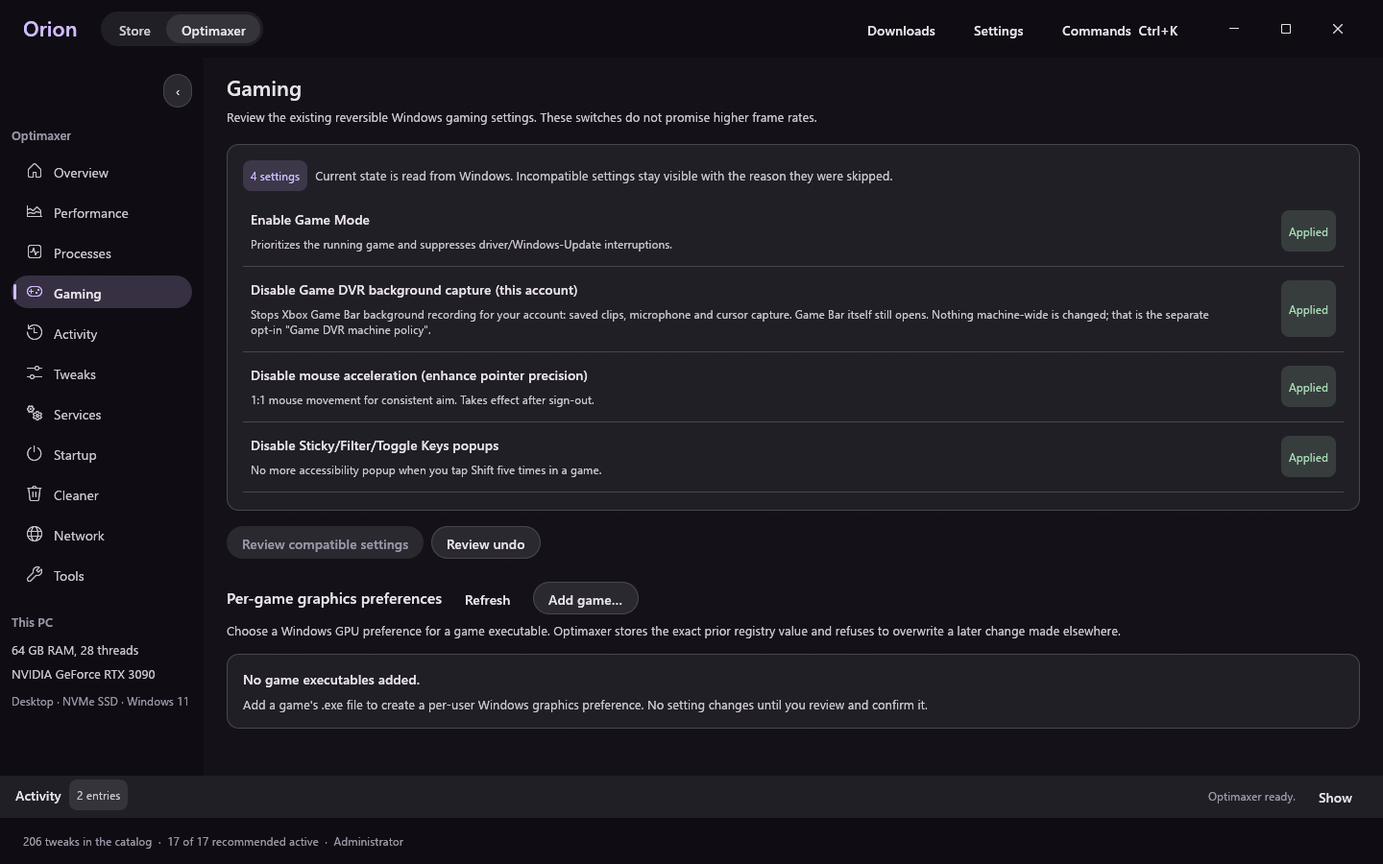
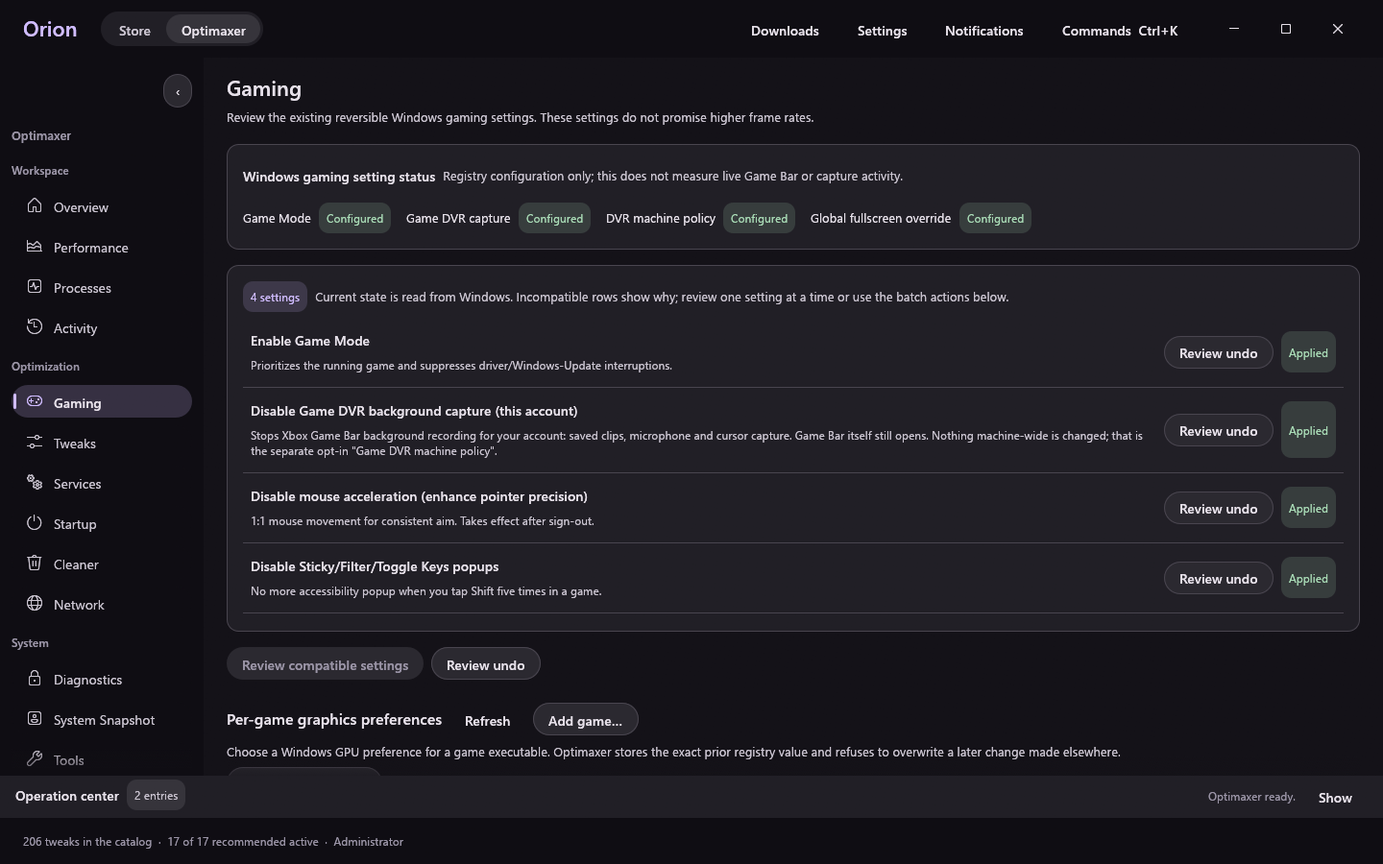
feat(gaming): add per-setting review controls (#82)

diff --git a/desktop/src/opti_ui.rs b/desktop/src/opti_ui.rs
@@ -4403,7 +4403,7 @@ impl OptiUi {
         kit::page_header(
             ui,
             "Gaming",
-            "Review the existing reversible Windows gaming settings. These switches do not promise higher frame rates.",
+            "Review the existing reversible Windows gaming settings. These settings do not promise higher frame rates.",
         );
         self.refresh_game_states(ctx);
 
@@ -4442,75 +4442,149 @@ impl OptiUi {
             .collect();
         kit::card(ui, |ui| {
             ui.set_width(ui.available_width());
-            ui.horizontal_wrapped(|ui| {
-                ui.label(RichText::new("Windows gaming setting status").font(FontId::new(T_BODY, semibold())).color(t.text));
-                ui.label(RichText::new("Registry configuration only; this does not measure live Game Bar or capture activity.").size(T_SMALL).color(t.muted));
-            });
+            let status_items = [
+                ("Game Mode", "game-mode"),
+                ("Game DVR capture", "game-dvr"),
+                ("DVR machine policy", "game-dvr-policy"),
+                ("Global fullscreen override", "game-fso"),
+            ];
+            let draw_status = |ui: &mut Ui, label: &str, id: &str| {
+                ui.horizontal_wrapped(|ui| {
+                    ui.label(RichText::new(label).size(T_SMALL).color(t.text));
+                    let current = self.status.get(id).copied();
+                    let tone = match current {
+                        Some(true) => Tone::Good,
+                        Some(false) => Tone::Warn,
+                        None => Tone::Bad,
+                    };
+                    kit::chip(ui, setting_match_label(current), tone);
+                });
+            };
+            if ui.available_width() < 640.0 {
+                ui.vertical(|ui| {
+                    ui.label(
+                        RichText::new("Windows gaming setting status")
+                            .font(FontId::new(T_BODY, semibold()))
+                            .color(t.text),
+                    );
+                    ui.add(
+                        egui::Label::new(
+                            RichText::new("Registry configuration only; this does not measure live Game Bar or capture activity.")
+                                .size(T_SMALL)
+                                .color(t.muted),
+                        )
+                        .wrap(),
+                    );
+                });
+            } else {
+                ui.horizontal_wrapped(|ui| {
+                    ui.label(RichText::new("Windows gaming setting status").font(FontId::new(T_BODY, semibold())).color(t.text));
+                    ui.add(egui::Label::new(RichText::new("Registry configuration only; this does not measure live Game Bar or capture activity.").size(T_SMALL).color(t.muted)).wrap());
+                });
+            }
             ui.add_space(S1);
-            ui.horizontal_wrapped(|ui| {
-                for (label, id) in [
-                    ("Game Mode", "game-mode"),
-                    ("Game DVR capture", "game-dvr"),
-                    ("DVR machine policy", "game-dvr-policy"),
-                    ("Global fullscreen override", "game-fso"),
-                ] {
-                    ui.horizontal(|ui| {
-                        ui.label(RichText::new(label).size(T_SMALL).color(t.text));
-                        let current = self.status.get(id).copied();
-                        let tone = match current {
-                            Some(true) => Tone::Good,
-                            Some(false) => Tone::Warn,
-                            None => Tone::Bad,
-                        };
-                        kit::chip(ui, setting_match_label(current), tone);
-                    });
-                    ui.add_space(S2);
-                }
-            });
+            if ui.available_width() < 640.0 {
+                ui.columns(2, |columns| {
+                    let column_count = columns.len();
+                    for (index, (label, id)) in status_items.iter().enumerate() {
+                        let column = &mut columns[index % column_count];
+                        draw_status(column, label, id);
+                        column.add_space(S2);
+                    }
+                });
+            } else {
+                ui.horizontal_wrapped(|ui| {
+                    for (label, id) in status_items {
+                        draw_status(ui, label, id);
+                        ui.add_space(S2);
+                    }
+                });
+            }
         });
         ui.add_space(S2);
+        let mut requested_tweak_review: Option<(String, bool)> = None;
         kit::card(ui, |ui| {
             ui.set_width(ui.available_width());
-            ui.horizontal_wrapped(|ui| {
-                kit::chip(ui, &format!("{} settings", supported.len()), Tone::Brand);
-                ui.label(RichText::new("Current state is read from Windows. Incompatible settings stay visible with the reason they were skipped.").size(T_SMALL).color(t.muted));
-            });
+            if ui.available_width() < 640.0 {
+                ui.vertical(|ui| {
+                    kit::chip(ui, &format!("{} settings", supported.len()), Tone::Brand);
+                    ui.add(
+                        egui::Label::new(
+                            RichText::new("Current state is read from Windows. Incompatible rows show why; review one setting at a time or use the batch actions below.")
+                                .size(T_SMALL)
+                                .color(t.muted),
+                        )
+                        .wrap(),
+                    );
+                });
+            } else {
+                ui.horizontal_wrapped(|ui| {
+                    kit::chip(ui, &format!("{} settings", supported.len()), Tone::Brand);
+                    ui.add(egui::Label::new(RichText::new("Current state is read from Windows. Incompatible rows show why; review one setting at a time or use the batch actions below.").size(T_SMALL).color(t.muted)).wrap());
+                });
+            }
             ui.add_space(S2);
             for tw in &supported {
                 let applied = self.status.get(&tw.id).copied().unwrap_or(false);
                 let compatible = hw::fits(tw, traits);
+                let can_review = self.busy.is_none() && self.elevated;
                 egui::Frame::new()
                     .inner_margin(Margin::symmetric(S2 as i8, S1 as i8))
                     .show(ui, |ui| {
                         ui.set_width(ui.available_width());
-                        let details_width = (ui.available_width() - 96.0).max(120.0);
-                        ui.horizontal(|ui| {
-                            ui.scope(|ui| {
-                                ui.set_max_width(details_width);
-                                ui.vertical(|ui| {
-                                    ui.label(
+                        let draw_details = |ui: &mut Ui| {
+                            ui.vertical(|ui| {
+                                ui.add(
+                                    egui::Label::new(
                                         RichText::new(&tw.name)
                                             .font(FontId::new(T_BODY, semibold()))
                                             .color(t.text),
-                                    );
-                                    ui.add(
-                                        egui::Label::new(
-                                            RichText::new(&tw.desc).size(T_CAPTION).color(t.muted),
-                                        )
-                                        .wrap(),
-                                    );
+                                    )
+                                    .wrap(),
+                                );
+                                ui.add(
+                                    egui::Label::new(
+                                        RichText::new(&tw.desc).size(T_CAPTION).color(t.muted),
+                                    )
+                                    .wrap(),
+                                );
+                            });
+                        };
+                        let mut draw_action = |ui: &mut Ui| {
+                            if applied {
+                                kit::chip(ui, "Applied", Tone::Good);
+                                if kit::secondary(ui, "Review undo", can_review).clicked() {
+                                    requested_tweak_review = Some((tw.id.clone(), true));
+                                }
+                            } else if !compatible {
+                                kit::chip(ui, "Not applicable", Tone::Neutral);
+                            } else {
+                                kit::chip(ui, "Available", Tone::Neutral);
+                                if kit::secondary(ui, "Review apply", can_review).clicked() {
+                                    requested_tweak_review = Some((tw.id.clone(), false));
+                                }
+                            }
+                        };
+                        let row_width = ui.available_width();
+                        if row_width < 640.0 {
+                            ui.vertical(|ui| {
+                                ui.set_width(row_width);
+                                draw_details(ui);
+                                ui.add_space(S1);
+                                ui.horizontal(|ui| draw_action(ui));
+                            });
+                        } else {
+                            let details_width = (row_width - 184.0).max(120.0);
+                            ui.horizontal(|ui| {
+                                ui.scope(|ui| {
+                                    ui.set_max_width(details_width);
+                                    draw_details(ui);
+                                });
+                                ui.with_layout(Layout::right_to_left(Align::Center), |ui| {
+                                    draw_action(ui);
                                 });
                             });
-                            ui.with_layout(Layout::right_to_left(Align::Center), |ui| {
-                                if applied {
-                                    kit::chip(ui, "Applied", Tone::Good);
-                                } else if !compatible {
-                                    kit::chip(ui, "Not applicable", Tone::Neutral);
-                                } else {
-                                    kit::chip(ui, "Available", Tone::Neutral);
-                                }
-                            });
-                        });
+                        }
                         if !compatible && let Some(reason) = hw::fit_reason(tw, traits) {
                             ui.label(RichText::new(reason).size(T_SMALL).color(t.subtle));
                         }
@@ -4518,6 +4592,13 @@ impl OptiUi {
                 ui.separator();
             }
         });
+        if let Some((id, undo)) = requested_tweak_review {
+            if undo {
+                self.preview_undo_ids(vec![id]);
+            } else {
+                self.preview_apply_ids(ctx, vec![id]);
+            }
+        }
         ui.add_space(S2);
         ui.horizontal_wrapped(|ui| {
             let ready = self.busy.is_none() && self.elevated;

diff --git a/desktop/src/app.rs b/desktop/src/app.rs
@@ -3099,8 +3099,8 @@ mod app_tests {
     #[test]
     fn update_busy_state_only_matches_running_operations() {
         let release = || Release {
-            version: (2, 15, 32),
-            tag: "v2.15.32".into(),
+            version: (2, 15, 33),
+            tag: "v2.15.33".into(),
             notes: String::new(),
             page: String::new(),
             url: String::new(),

diff --git a/linux/optimaxer.py b/linux/optimaxer.py
@@ -20,7 +20,7 @@ import tempfile
 import time
 import urllib.request
 
-__version__ = "2.15.32"
+__version__ = "2.15.33"
 REPO = "bliper2/optimaxer"
 STATE_FILE = "/var/lib/optimaxer/state.json"
 BACKUP_DIR = "/var/lib/optimaxer/backups"

diff --git a/docs/edition-comparison.md b/docs/edition-comparison.md
@@ -1,6 +1,6 @@
 # Edition comparison
 
-Snapshot of the repository at v2.15.32. This describes implemented scope, not a parity promise. The Rust desktop app is the primary target for the UI work; the PowerShell and Linux editions remain independent products.
+Snapshot of the repository at v2.15.33. This describes implemented scope, not a parity promise. The Rust desktop app is the primary target for the UI work; the PowerShell and Linux editions remain independent products.
 
 | Area | PowerShell / WPF (Windows) | Python / Tkinter (Linux) | Rust / egui (Windows) |
 | --- | --- | --- | --- |
@@ -20,11 +20,11 @@ Snapshot of the repository at v2.15.32. This describes implemented scope, not a 
 
 ## Rust desktop baseline and gaps
 
-The Rust app has thirteen Optimaxer pages: Overview, Performance, Diagnostics, System Snapshot, Processes, Gaming, Activity, Tweaks, Services, Startup, Cleaner, Network and Tools. Overview samples CPU, physical memory, system-drive capacity, uptime and process count. Performance charts CPU, memory, aggregate physical-disk throughput, receive/send byte rates from active non-loopback adapters, busiest GPU-engine utilization and dedicated GPU memory once per second while Overview or Performance is visible. It captures a selected Windows process for 30 seconds with PresentMon, verifies the download against GitHub's published SHA-256, and records average FPS, 1% and 0.1% lows, p99 frame time, frame count and stutters. Each capture also samples Windows DPC/interrupt counters for five seconds when available, queries current timer resolution, attempts ten TCP connections to 1.1.1.1 port 53, and reads the latest Diagnostics-Performance boot event. TCP averages, jitter and failures measure that DNS endpoint, not ICMP ping or game-server latency. Boot duration is comparable only across distinct boot-event timestamps. Before/after comparisons require matching process names and are explicitly observational. Captures are capped at 40; executable and history live under the app data directory. Disk readings use the Windows PhysicalDisk `Disk Bytes/sec` counter; virtual network adapters may be included, so network readings are adapter traffic rather than internet throughput. Unsupported counters are shown as unavailable. Diagnostics runs only the read-only SFC `/verifyonly` and DISM `/Online /Cleanup-Image /ScanHealth` checks, displaying exit codes and bounded captured output; repair actions remain in Tools. System Snapshot stores the current OS, CPU, GPU names, logical thread count, memory, system-volume capacity and uptime locally, retaining the 30 newest records; it compares the two newest captures for changes to inventory and total capacity, excluding changing used-space and uptime readings. It is an inventory and cannot restore Windows. The read-only Processes page samples each accessible process's CPU time, working set and image path every three seconds while open; protected or inaccessible process fields remain unavailable. CPU is normalized to total logical processor capacity and is a short-interval estimate. The Gaming page displays current state for four existing reversible gaming tweaks and offers hardware-filtered apply/undo through the existing confirmation flow. It supports manually added executable profiles for Windows per-game GPU preference, with exact saved-original restoration and external-change conflict protection. Preference-only JSON presets can be imported/exported; executable paths and saved Windows values are excluded. The read-only library scan lists installed games from bounded Steam app manifests and Epic launcher `.item` manifests; it does not traverse game folders or change launcher data. Users select an executable in the detected install folder before saving a game profile. Steam library manifests that cannot be read are skipped; Epic invalid manifests are reported. Per-profile history displays the latest matching apply and restore records from the bounded operation log. The Gaming page reports whether Game Mode, per-user Game DVR capture, machine Game DVR policy and the global fullscreen-optimization override match the registry settings used by Optimaxer tweaks. This is configuration status, not live Game Bar or capture activity. The Performance page provides user-triggered PresentMon captures and observational comparisons. Publisher details, process termination and process inspection details are not implemented. The latest 100 confirmed tweak apply/undo batches are saved locally. Activity merges these records with up to 100 bounded system-action records for confirmed service, startup, cleaner, DNS, network reset, tool, installer launch, registry export and undo-all jobs in one timestamp-sorted, searchable timeline. Operation records label worker-reported warnings and errors and retain bounded output; a finished worker does not verify final system state or provide undo data. The download manager can cancel downloads, and Cleaner size scans can be cancelled without retaining partial results. Path previews, other read-only scans, benchmarks and running Windows system-changing jobs cannot currently be cancelled. Separate `operations.json` preserves these records in the app data directory.
+The Rust app has thirteen Optimaxer pages: Overview, Performance, Diagnostics, System Snapshot, Processes, Gaming, Activity, Tweaks, Services, Startup, Cleaner, Network and Tools. Overview samples CPU, physical memory, system-drive capacity, uptime and process count. Performance charts CPU, memory, aggregate physical-disk throughput, receive/send byte rates from active non-loopback adapters, busiest GPU-engine utilization and dedicated GPU memory once per second while Overview or Performance is visible. It captures a selected Windows process for 30 seconds with PresentMon, verifies the download against GitHub's published SHA-256, and records average FPS, 1% and 0.1% lows, p99 frame time, frame count and stutters. Each capture also samples Windows DPC/interrupt counters for five seconds when available, queries current timer resolution, attempts ten TCP connections to 1.1.1.1 port 53, and reads the latest Diagnostics-Performance boot event. TCP averages, jitter and failures measure that DNS endpoint, not ICMP ping or game-server latency. Boot duration is comparable only across distinct boot-event timestamps. Before/after comparisons require matching process names and are explicitly observational. Captures are capped at 40; executable and history live under the app data directory. Disk readings use the Windows PhysicalDisk `Disk Bytes/sec` counter; virtual network adapters may be included, so network readings are adapter traffic rather than internet throughput. Unsupported counters are shown as unavailable. Diagnostics runs only the read-only SFC `/verifyonly` and DISM `/Online /Cleanup-Image /ScanHealth` checks, displaying exit codes and bounded captured output; repair actions remain in Tools. System Snapshot stores the current OS, CPU, GPU names, logical thread count, memory, system-volume capacity and uptime locally, retaining the 30 newest records; it compares the two newest captures for changes to inventory and total capacity, excluding changing used-space and uptime readings. It is an inventory and cannot restore Windows. The read-only Processes page samples each accessible process's CPU time, working set and image path every three seconds while open; protected or inaccessible process fields remain unavailable. CPU is normalized to total logical processor capacity and is a short-interval estimate. The Gaming page displays current state for four existing reversible gaming tweaks and offers hardware-filtered apply/undo through the existing confirmation flow. It supports manually added executable profiles for Windows per-game GPU preference, with exact saved-original restoration and external-change conflict protection. Preference-only JSON presets can be imported/exported; executable paths and saved Windows values are excluded. The read-only library scan lists installed games from bounded Steam app manifests and Epic launcher `.item` manifests; it does not traverse game folders or change launcher data. Users select an executable in the detected install folder before saving a game profile. Steam library manifests that cannot be read are skipped; Epic invalid manifests are reported. Per-profile history displays the latest matching apply and restore records from the bounded operation log. The Gaming page reports whether Game Mode, per-user Game DVR capture, machine Game DVR policy and the global fullscreen-optimization override match the registry settings used by Optimaxer tweaks. This is configuration status, not live Game Bar or capture activity. The four non-opt-in Safe gaming tweaks offer per-row apply and undo review through the shared confirmation flow. Machine-wide DVR policy and the global fullscreen override remain opt-in in Tweaks. The Performance page provides user-triggered PresentMon captures and observational comparisons. Publisher details, process termination and process inspection details are not implemented. The latest 100 confirmed tweak apply/undo batches are saved locally. Activity merges these records with up to 100 bounded system-action records for confirmed service, startup, cleaner, DNS, network reset, tool, installer launch, registry export and undo-all jobs in one timestamp-sorted, searchable timeline. Operation records label worker-reported warnings and errors and retain bounded output; a finished worker does not verify final system state or provide undo data. The download manager can cancel downloads, and Cleaner size scans can be cancelled without retaining partial results. Path previews, other read-only scans, benchmarks and running Windows system-changing jobs cannot currently be cancelled. Separate `operations.json` preserves these records in the app data directory.
 
 Overview recommends eligible inactive Smart Optimize settings, offers a cleanup scan when measured system-drive use reaches 90%, and links to startup review, diagnostics, update checks, restore-point creation and memory cleanup. System changes continue through their existing confirmation flows; Overview itself never applies tweaks or deletes files.
 
-Settings expose system/light/dark mode, Windows/Classic/Material control styling, 16 named color palettes, custom accent and editable light/dark surfaces, reduced motion, comfortable/compact density, 90–125% interface scale, optional 0–16 px corner radius, update checks, download location and restore-point preference. Palette choice remains separate from control shape; custom text and accent are adjusted for contrast. Version 4 appearance presets include custom surfaces; versions 1 through 3 import with defaults for fields they predate. Failed settings writes are reported; appearance and restore-point changes revert in the live UI, while other preferences remain active for the session and show that they were not saved. The Optimaxer rail can collapse to icons and remembers that choice; Store navigation stays expanded. The Tweaks page supports named selection profiles, portable JSON import/export and a read-only differences view for two saved profiles. Tweak batches that change settings requiring a Windows restart set a persisted reminder, cleared after system uptime resets. The notification center aggregates restart, update, operation and download status, with relevant actions and bounded dismissal storage. Performance does not include GPU temperature or dedicated-memory capacity readings. Gaming profiles require a user-selected executable. Each profile shows matching records from the latest 100 bounded system operations; standalone Game Mode/DVR controls are not implemented. The Performance page provides user-triggered PresentMon captures and observational comparisons. Existing exact-undo records, service backups and confirmation previews remain the source of truth for their respective operations.
+Settings expose system/light/dark mode, Windows/Classic/Material control styling, 16 named color palettes, custom accent and editable light/dark surfaces, reduced motion, comfortable/compact density, 90–125% interface scale, optional 0–16 px corner radius, update checks, download location and restore-point preference. Palette choice remains separate from control shape; custom text and accent are adjusted for contrast. Version 4 appearance presets include custom surfaces; versions 1 through 3 import with defaults for fields they predate. Failed settings writes are reported; appearance and restore-point changes revert in the live UI, while other preferences remain active for the session and show that they were not saved. The Optimaxer rail can collapse to icons and remembers that choice; Store navigation stays expanded. The Tweaks page supports named selection profiles, portable JSON import/export and a read-only differences view for two saved profiles. Tweak batches that change settings requiring a Windows restart set a persisted reminder, cleared after system uptime resets. The notification center aggregates restart, update, operation and download status, with relevant actions and bounded dismissal storage. Performance does not include GPU temperature or dedicated-memory capacity readings. Gaming profiles require a user-selected executable. Each profile shows matching records from the latest 100 bounded system operations. The Performance page provides user-triggered PresentMon captures and observational comparisons. Existing exact-undo records, service backups and confirmation previews remain the source of truth for their respective operations.
 
 The Tweaks catalog supports applied-state, recommendation, favorite and hardware-compatibility filters, plus name, risk and status sorting within categories. Favorite IDs persist with local settings. These controls only change catalog visibility and ordering. A pinned action bar stays visible while the catalog scrolls and offers preview, undo, save-profile and clear-selection actions with recommended and review counts. The command palette is fuzzy-searchable, labels results by category, and routes to pages, Store search, downloads, settings, tweak filtering and the existing 17 color palettes. It lists up to eight newest saved Activity records and opens each through the existing timestamp search. An unmatched query offers a direct tweak search. Palette changes use the same checked settings save and rollback behavior as Settings. Arrow keys select results and Enter runs the selected navigation or preference action; the palette does not trigger system changes.
 

diff --git a/docs/verification.md b/docs/verification.md
@@ -98,4 +98,6 @@ The v2.15.30 command palette fuzzy-matches subsequences in command names and hin
 
 The v2.15.31 command palette includes up to eight newest saved tweak and system-operation records. Selecting a record opens Activity filtered to its timestamp; title and timestamp fuzzy search use the same history-backed records. A live Windows check opened the palette with Ctrl+K, showed two actual saved tweak records ahead of the static commands, and opened the newest record; Activity displayed its timestamp and exactly one matching record. No system-changing action was run. Rust passes 307 tests with 7 ignored; PowerShell passes 60; Linux passes 100; formatting, Clippy and the optimized release build pass. `bash -n linux/install.sh` passes under Git Bash on this Windows host.
 
-The v2.15.32 Overview exposes shortcuts to existing Startup, Diagnostics, update, restore-point and memory-cleanup flows. At compact widths, diagnostics joins the second action row to keep the top row balanced. A full screenshot walk at 760 × 520 checks the responsive layout. Live Windows UI checks opened Startup and Diagnostics and showed 21 discovered startup items; the restore-point confirmation was opened and canceled without making a restore point. The update action was invoked, but its completion result was not visible in the notification panel. Rust passes 308 tests with 7 ignored; PowerShell passes 60; Linux passes 100; formatting, Clippy, debug build and optimized release build pass. `bash -n linux/install.sh` passes under Git Bash on this Windows host.
+The v2.15.32 Overview exposes shortcuts to existing Startup, Diagnostics, update, restore-point and memory-cleanup flows. At compact widths, diagnostics joins the second action row to keep the top row balanced. A full screenshot walk at 760 × 520 checks the responsive layout. Live Windows UI checks opened Startup and Diagnostics and showed 21 discovered startup items; the restore-point confirmation was opened and canceled without making a restore point. The update action was invoked, but its completion result was not visible in the notification panel at that time; the user later confirmed that the app was running v2.15.32. Rust passes 308 tests with 7 ignored; PowerShell passes 60; Linux passes 100; formatting, Clippy, debug build and optimized release build pass. `bash -n linux/install.sh` passes under Git Bash on this Windows host.
+
+The v2.15.33 Gaming page adds per-setting apply and undo review for four compatible, non-opt-in Safe tweaks. Each action reuses the existing administrator gate, dry-run preview, restore-point option, confirmation and saved-original verification. Machine-wide DVR policy and global fullscreen override remain opt-in. Live Windows UI checks at 760 × 520 confirmed a two-column status panel and stacked setting details/actions without horizontal clipping; at 1180 × 760 the status returns to one row and actions sit inline. The refreshed 1440 × 900 Gaming capture is `docs/screenshots/desktop-gaming.png`. Opening `Review undo` showed a one-tweak confirmation; it was canceled, and no Windows setting changed. Rust passes 308 tests with 7 ignored; PowerShell passes 60; Linux passes 100; formatting, Clippy and the optimized release build pass. `bash -n linux/install.sh` passes under Git Bash on this Windows host.

diff --git a/desktop/README.md b/desktop/README.md
@@ -79,7 +79,7 @@ Diagnostics offers SFC `/verifyonly` and DISM `/Online /Cleanup-Image /ScanHealt
 
 System Snapshot saves a local inventory of the Windows build, processor, graphics adapters, logical thread count, physical memory, system-volume capacity and uptime. It compares the two newest captures for inventory and capacity changes; changing runtime readings such as used memory and uptime are not presented as hardware changes. The browser retains the 30 newest captures in `%LOCALAPPDATA%\OrionStore\optimaxer\snapshots.json`. It requires no elevation, changes no system settings and is not a Windows backup or restore point.
 
-The Gaming page shows the current Windows state for the four existing non-opt-in gaming tweaks and lets you add game executables manually. Per-game graphics choices use the current user's Windows GPU preference registry key; applying one requires an exact preview and confirmation, saves the prior value before writing, preserves other directives, and refuses to overwrite a later value change made outside Optimaxer. Restore puts the exact original registry string back. Game profiles live in `%LOCALAPPDATA%\OrionStore\optimaxer\games.json`. Preference-only JSON presets can be imported or exported for a selected game; they do not carry executable paths or saved Windows values. The page does not scan game libraries, read Game Mode/Game DVR independently of the catalog tweaks, or promise an FPS increase.
+The Gaming page shows the current Windows state for the four existing non-opt-in gaming tweaks and lets you review each setting's apply or undo individually. These actions use the existing administrator gate, exact preview, confirmation, saved originals and verification; machine-wide DVR policy and the global fullscreen override remain opt-in in Tweaks. You can also add game executables manually. Per-game graphics choices use the current user's Windows GPU preference registry key; applying one requires an exact preview and confirmation, saves the prior value before writing, preserves other directives, and refuses to overwrite a later value change made outside Optimaxer. Restore puts the exact original registry string back. Game profiles live in `%LOCALAPPDATA%\OrionStore\optimaxer\games.json`. Preference-only JSON presets can be imported or exported for a selected game; they do not carry executable paths or saved Windows values. The page does not scan game libraries, read Game Mode/Game DVR independently of the catalog tweaks, or promise an FPS increase.
 
 The Tweaks page can save up to 20 named selections locally and import or export versioned JSON profiles. Local profiles live at `%LOCALAPPDATA%\OrionStore\profiles.json`. Import selects only known, non-retired, non-opt-in tweaks that fit the current hardware; unavailable or incompatible IDs are skipped with a count. Import never applies changes. Applying a selected profile still requires administrator access, an exact preview and confirmation. Profiles contain tweak IDs only, not Windows settings or backup data. See the [profile format and import rules](../docs/profile-format.md).
 

diff --git a/docs/releases/v2.15.33.md b/docs/releases/v2.15.33.md
@@ -1,0 +1,5 @@
+# v2.15.33
+
+Gaming now offers per-setting review actions for compatible, non-opt-in Safe tweaks. Review apply opens the existing change preview and confirmation for that setting; Review undo uses Optimaxer's saved-original path. The existing batch actions remain available. Machine-wide DVR and global fullscreen changes stay opt-in in Tweaks.
+
+See docs/verification.md for verification and its limits.
